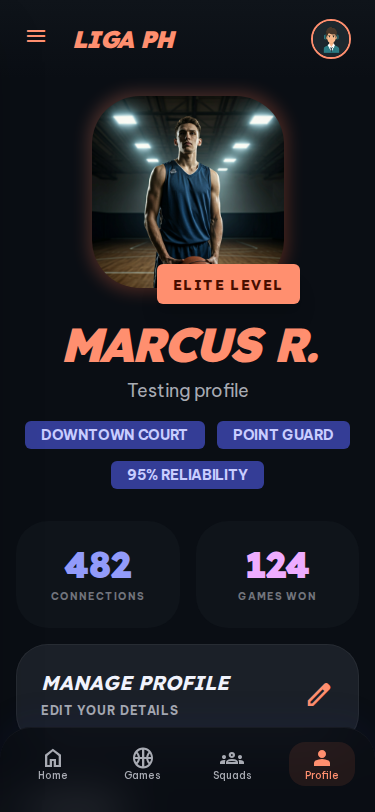
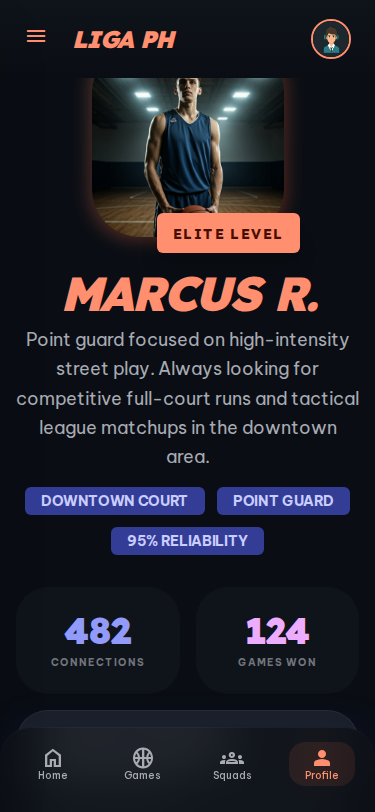
feat: fetch and sync profile data with firestore
- Refactored `profile.js` to asynchronously fetch the authenticated user's profile data from Firestore upon initialization.
- Implemented `onAuthStateChanged` within `profile.js` to wait for Firebase Auth to initialize before attempting the Firestore fetch.
- Added graceful fallbacks to `localStorage` (`ligaPhProfile`) and a timeout failsafe in case the Firestore fetch fails (e.g., due to dummy API keys or network issues).
- Updated DOM elements in `profile.html` and form fields in `edit-profile.html` to populate with the fetched Firebase data.

Changed region(s): [[0.0587, 0.0924, 0.968, 0.8929]]

diff --git a/profile.js b/profile.js
@@ -1,4 +1,7 @@
 // profile.js
+import { auth, db } from './firebase-setup.js';
+import { doc, getDoc } from "https://www.gstatic.com/firebasejs/10.9.0/firebase-firestore.js";
+import { onAuthStateChanged } from "https://www.gstatic.com/firebasejs/10.9.0/firebase-auth.js";
 
 const DEFAULT_PROFILE = {
     displayName: "MARCUS R.",
@@ -7,20 +10,62 @@ const DEFAULT_PROFILE = {
     bio: "Point guard focused on high-intensity street play. Always looking for competitive full-court runs and tactical league matchups in the downtown area."
 };
 
-function getProfileData() {
-    const data = localStorage.getItem('ligaPhProfile');
-    if (data) {
-        return JSON.parse(data);
+async function getProfileData() {
+    return new Promise((resolve) => {
+        // Fallback to local storage
+        const fallback = () => {
+            const data = localStorage.getItem('ligaPhProfile');
+            if (data) {
+                resolve(JSON.parse(data));
+            } else {
+                resolve(DEFAULT_PROFILE);
+            }
+        };
+
+        // If auth is already initialized and user is present
+        const user = auth.currentUser;
+        if (user) {
+            fetchFromFirestore(user).then(resolve).catch(() => fallback());
+        } else {
+            // Listen for auth state change
+            const unsubscribe = onAuthStateChanged(auth, (u) => {
+                unsubscribe(); // Stop listening after first emission
+                if (u) {
+                    fetchFromFirestore(u).then(resolve).catch(() => fallback());
+                } else {
+                    fallback();
+                }
+            });
+            // Timeout safety just in case auth hangs
+            setTimeout(() => fallback(), 3000);
+        }
+    });
+}
+
+async function fetchFromFirestore(user) {
+    try {
+        const docRef = doc(db, "users", user.uid);
+        const docSnap = await getDoc(docRef);
+        if (docSnap.exists()) {
+            const data = docSnap.data();
+            // Sync local storage with fetched data
+            saveProfileData(data);
+            return data;
+        } else {
+            throw new Error("No profile document found.");
+        }
+    } catch (e) {
+        console.warn("Firestore fetch failed, falling back to local storage.", e);
+        throw e;
     }
-    return DEFAULT_PROFILE;
 }
 
 function saveProfileData(data) {
     localStorage.setItem('ligaPhProfile', JSON.stringify(data));
 }
 
-function initProfilePage() {
-    const profile = getProfileData();
+async function initProfilePage() {
+    const profile = await getProfileData();
 
     // Elements to update
     const nameEl = document.getElementById('profile-name');
@@ -28,11 +73,11 @@ function initProfilePage() {
     const homeCourtEl = document.getElementById('profile-home-court');
     const bioEl = document.getElementById('profile-bio');
 
-    if (nameEl) nameEl.textContent = profile.displayName;
+    if (nameEl) nameEl.textContent = profile.displayName || "Unknown Player";
 
     // Map position code to friendly name or just code
     if (positionEl) {
-        let positionText = profile.primaryPosition;
+        let positionText = profile.primaryPosition || "UNASSIGNED";
         if (profile.primaryPosition === 'PG') positionText = 'POINT GUARD';
         if (profile.primaryPosition === 'SG') positionText = 'SHOOTING GUARD';
         if (profile.primaryPosition === 'SF') positionText = 'SMALL FORWARD';
@@ -41,12 +86,12 @@ function initProfilePage() {
         positionEl.textContent = positionText;
     }
 
-    if (homeCourtEl) homeCourtEl.textContent = profile.homeCourt.toUpperCase();
-    if (bioEl) bioEl.textContent = profile.bio;
+    if (homeCourtEl) homeCourtEl.textContent = (profile.homeCourt || "UNKNOWN COURT").toUpperCase();
+    if (bioEl) bioEl.textContent = profile.bio || "No bio available.";
 }
 
-function initEditProfilePage() {
-    const profile = getProfileData();
+async function initEditProfilePage() {
+    const profile = await getProfileData();
 
     const nameInput = document.getElementById('displayName');
     const positionSelect = document.getElementById('primaryPosition');
